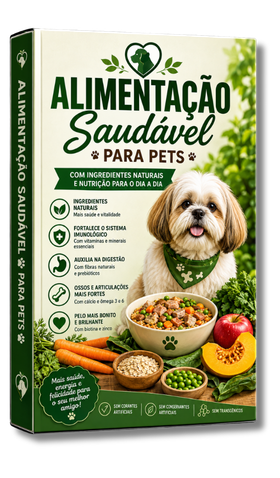
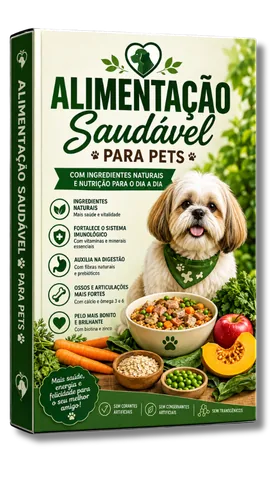
Add files via upload

diff --git a/index.html b/index.html
@@ -9,7 +9,10 @@
   <!-- Fontes Validadas do Chef Canino: Fraunces (Títulos), Work Sans (Corpo), IBM Plex Mono (Eyebrows) -->
   <link rel="preconnect" href="https://fonts.googleapis.com">
   <link rel="preconnect" href="https://fonts.gstatic.com" crossorigin>
-  <link href="https://fonts.googleapis.com/css2?family=Fraunces:ital,opsz,wght@0,9..144,600;0,9..144,700;1,9..144,600&family=IBM+Plex+Mono:wght@500;600&family=Work+Sans:wght@400;500;600;700;800&display=swap" rel="stylesheet">
+  <link rel="preload" href="./mockup.webp" as="image" fetchpriority="high">
+  <link rel="preload" as="style" href="https://fonts.googleapis.com/css2?family=Fraunces:ital,opsz,wght@0,9..144,600;0,9..144,700;1,9..144,600&family=IBM+Plex+Mono:wght@500;600&family=Work+Sans:wght@400;500;600;700;800&display=swap">
+  <link href="https://fonts.googleapis.com/css2?family=Fraunces:ital,opsz,wght@0,9..144,600;0,9..144,700;1,9..144,600&family=IBM+Plex+Mono:wght@500;600&family=Work+Sans:wght@400;500;600;700;800&display=swap" rel="stylesheet" media="print" onload="this.media='all'">
+  <noscript><link href="https://fonts.googleapis.com/css2?family=Fraunces:ital,opsz,wght@0,9..144,600;0,9..144,700;1,9..144,600&family=IBM+Plex+Mono:wght@500;600&family=Work+Sans:wght@400;500;600;700;800&display=swap" rel="stylesheet"></noscript>
 
   <style>
     /* IDENTIDADE VISUAL VALIDADA CHEF CANINO */
@@ -1186,7 +1189,7 @@
       </h1>
    
       <div class="hero-mockup-wrapper">
-        <img src="./mockup.png" alt="Chef Canino Kit Completo de Alimentação Natural" loading="eager">
+        <img src="./mockup.webp" alt="Chef Canino Kit Completo de Alimentação Natural" loading="eager" fetchpriority="high" width="1040" height="1040">
       </div>
 
       <p class="lede">
@@ -1223,19 +1226,19 @@
       <!-- Carrossel Automático Contínuo de Páginas do Ebook -->
       <div class="preview-carousel-wrapper" id="previewCarouselContainer">
         <div class="preview-carousel-track" id="previewCarouselTrack">
-          <div class="preview-page-card"><img src="./pag1.png" alt="Página 1 do Guia Chef Canino" loading="lazy"></div>
-          <div class="preview-page-card"><img src="./pag2.png" alt="Página 2 do Guia Chef Canino" loading="lazy"></div>
-          <div class="preview-page-card"><img src="./pag3.png" alt="Página 3 do Guia Chef Canino" loading="lazy"></div>
-          <div class="preview-page-card"><img src="./pag4.png" alt="Página 4 do Guia Chef Canino" loading="lazy"></div>
-          <div class="preview-page-card"><img src="./pag5.png" alt="Página 5 do Guia Chef Canino" loading="lazy"></div>
-          <div class="preview-page-card"><img src="./pag6.png" alt="Página 6 do Guia Chef Canino" loading="lazy"></div>
+          <div class="preview-page-card"><img src="./pag1.webp" alt="Página 1 do Guia Chef Canino" loading="lazy" width="520" height="735"></div>
+          <div class="preview-page-card"><img src="./pag2.webp" alt="Página 2 do Guia Chef Canino" loading="lazy" width="520" height="735"></div>
+          <div class="preview-page-card"><img src="./pag3.webp" alt="Página 3 do Guia Chef Canino" loading="lazy" width="520" height="735"></div>
+          <div class="preview-page-card"><img src="./pag4.webp" alt="Página 4 do Guia Chef Canino" loading="lazy" width="520" height="735"></div>
+          <div class="preview-page-card"><img src="./pag5.webp" alt="Página 5 do Guia Chef Canino" loading="lazy" width="520" height="735"></div>
+          <div class="preview-page-card"><img src="./pag6.webp" alt="Página 6 do Guia Chef Canino" loading="lazy" width="520" height="735"></div>
           <!-- Duplicatas para rolagem infinita contínua sem saltos -->
-          <div class="preview-page-card"><img src="./pag1.png" alt="Página 1 do Guia Chef Canino" loading="lazy"></div>
-          <div class="preview-page-card"><img src="./pag2.png" alt="Página 2 do Guia Chef Canino" loading="lazy"></div>
-          <div class="preview-page-card"><img src="./pag3.png" alt="Página 3 do Guia Chef Canino" loading="lazy"></div>
-          <div class="preview-page-card"><img src="./pag4.png" alt="Página 4 do Guia Chef Canino" loading="lazy"></div>
-          <div class="preview-page-card"><img src="./pag5.png" alt="Página 5 do Guia Chef Canino" loading="lazy"></div>
-          <div class="preview-page-card"><img src="./pag6.png" alt="Página 6 do Guia Chef Canino" loading="lazy"></div>
+          <div class="preview-page-card"><img src="./pag1.webp" alt="Página 1 do Guia Chef Canino" loading="lazy" width="520" height="735"></div>
+          <div class="preview-page-card"><img src="./pag2.webp" alt="Página 2 do Guia Chef Canino" loading="lazy" width="520" height="735"></div>
+          <div class="preview-page-card"><img src="./pag3.webp" alt="Página 3 do Guia Chef Canino" loading="lazy" width="520" height="735"></div>
+          <div class="preview-page-card"><img src="./pag4.webp" alt="Página 4 do Guia Chef Canino" loading="lazy" width="520" height="735"></div>
+          <div class="preview-page-card"><img src="./pag5.webp" alt="Página 5 do Guia Chef Canino" loading="lazy" width="520" height="735"></div>
+          <div class="preview-page-card"><img src="./pag6.webp" alt="Página 6 do Guia Chef Canino" loading="lazy" width="520" height="735"></div>
         </div>
       </div>
 
@@ -1352,7 +1355,7 @@
       <p class="section-subtitle">Pratos balanceados com aparência e sabor de comida de verdade.</p>
 
       <div class="vitrine-featured">
-        <img src="./prato.webp" alt="Prato variado com alimentação natural preparada para cães" loading="lazy">
+        <img src="./prato.webp" alt="Prato variado com alimentação natural preparada para cães" loading="lazy" width="1000" height="1000">
         <div class="vitrine-details">
           <h3>Conexão e Carinho em Cada Prato</h3>
           <p>
@@ -1413,7 +1416,7 @@
       <div class="bonus-grid">
         <div class="bonus-card">
           <span class="bonus-badge">BÔNUS 1</span>
-          <img src="./bonus-petiscos.webp" alt="10 Petiscos Naturais do Chef Canino" class="bonus-mockup" loading="lazy">
+          <img src="./bonus-petiscos.webp" alt="10 Petiscos Naturais do Chef Canino" class="bonus-mockup" loading="lazy" width="152" height="248">
           <h3 class="bonus-title">10 Petiscos Naturais</h3>
           <p class="bonus-desc">Receitas fáceis e nutritivas de petiscos caseiros para recompensar e adestrar seu cão sem químicos.</p>
           <div class="bonus-pricing">
@@ -1423,7 +1426,7 @@
 
         <div class="bonus-card">
           <span class="bonus-badge">BÔNUS 2</span>
-          <img src="./bonus-guia.webp" alt="Guia Alimentação Saudável para Pets" class="bonus-mockup" loading="lazy">
+          <img src="./bonus-guia.webp" alt="Guia Alimentação Saudável para Pets" class="bonus-mockup" loading="lazy" width="280" height="478">
           <h3 class="bonus-title">Guia Alimentação Saudável</h3>
           <p class="bonus-desc">Guia rápido de transição alimentar, lista de alimentos proibidos e permitidos, e dicas de conservação.</p>
           <div class="bonus-pricing">
@@ -1451,7 +1454,7 @@
 
         <!-- Mockup do Kit Completo no Box da Oferta -->
         <div class="pricing-mockup-wrapper">
-          <img src="./mockup-oferta.png" alt="Mockup do Kit Completo Chef Canino e Bônus" class="pricing-mockup-img" loading="lazy">
+          <img src="./mockup-oferta.webp" alt="Mockup do Kit Completo Chef Canino e Bônus" class="pricing-mockup-img" loading="lazy" width="300" height="250">
         </div>
 
         <div class="pricing-timer-box">
@@ -1496,7 +1499,7 @@
       <div class="guarantee-box">
         <!-- SELO DE GARANTIA COM ESTILO EMBUTIDO DIRETO NA TAG: -->
         <div style="flex-shrink: 0; width: 190px; max-width: 100%; display: flex; align-items: center; justify-content: center;">
-          <img src="./image.png" alt="Selo de Garantia Incondicional 7 Dias - 100% Devolução" style="width: 100%; max-width: 190px; height: auto; object-fit: contain; display: block; filter: drop-shadow(0 10px 20px rgba(43, 38, 34, 0.16));" loading="lazy">
+          <img src="./image.webp" alt="Selo de Garantia Incondicional 7 Dias - 100% Devolução" style="width: 100%; max-width: 190px; height: auto; object-fit: contain; display: block; filter: drop-shadow(0 10px 20px rgba(43, 38, 34, 0.16));" loading="lazy" width="300" height="300">
         </div>
 
         <div class="guarantee-content">
